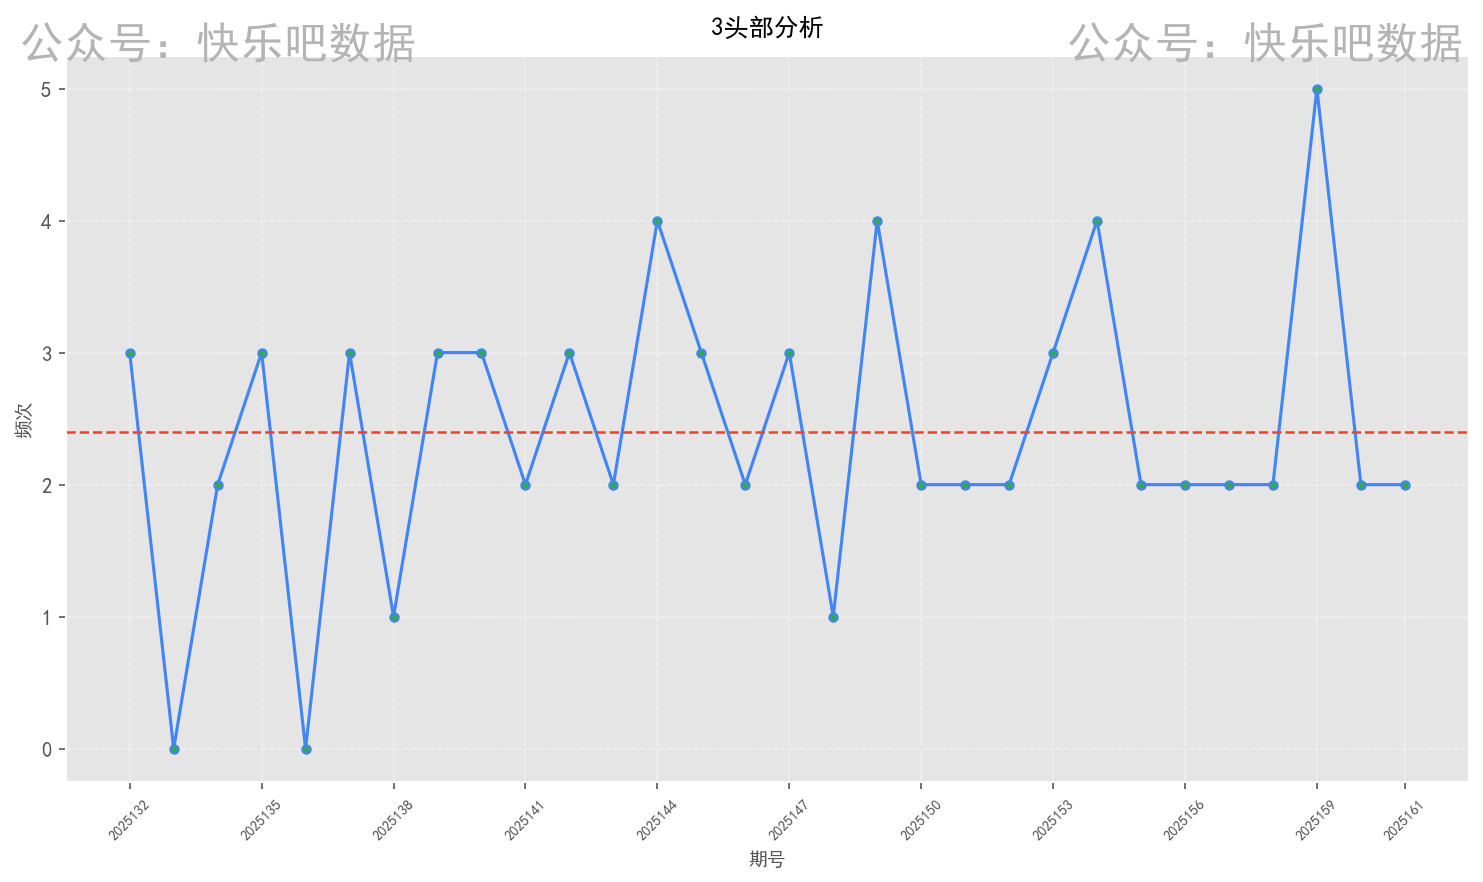
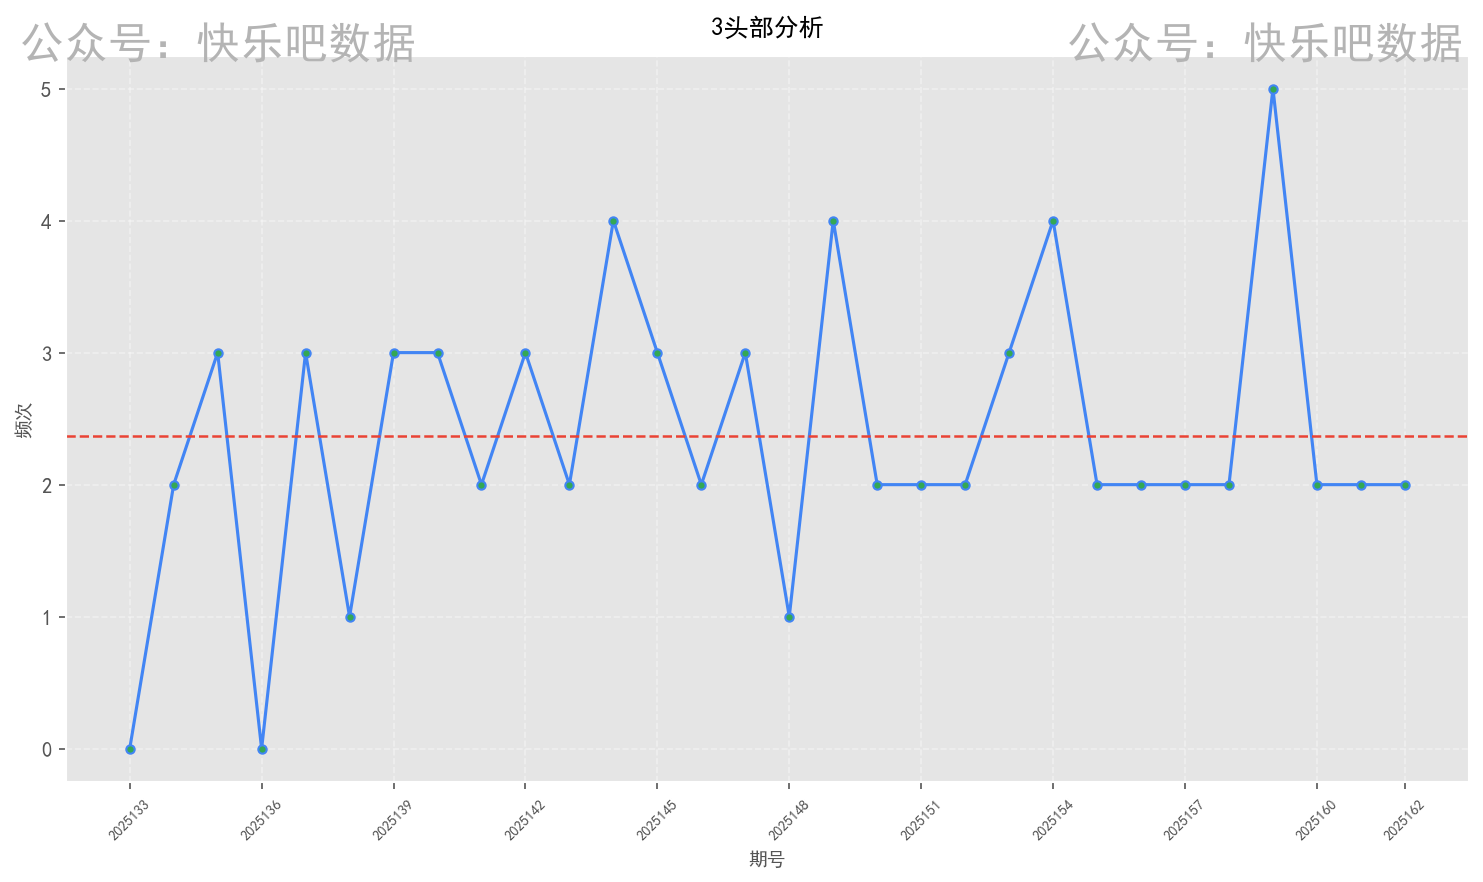
自动提交报告 20250622_1250

diff --git a/快乐8头号分析项目/数据报告/20250622/report.html b/快乐8头号分析项目/数据报告/20250622/report.html
@@ -440,7 +440,7 @@
                     <div class="label">头部区间</div>
                 </div>
                 <div class="overview-card">
-                    <div class="value">2025161</div>
+                    <div class="value">2025162</div>
                     <div class="label">最新期号</div>
                 </div>
                 <div class="overview-card">
@@ -464,11 +464,11 @@
             <div class="stats-summary">
                 <div class="stat-item">
                     <span class="stat-label">历史平均</span>
-                    <span class="stat-value">2.10</span>
+                    <span class="stat-value">2.23</span>
                 </div>
                 <div class="stat-item">
                     <span class="stat-label">近期平均</span>
-                    <span class="stat-value">1.00</span>
+                    <span class="stat-value">1.40</span>
                 </div>
                 <div class="stat-item">
                     <span class="stat-label">最高频次</span>
@@ -490,7 +490,7 @@
                 </div>
                 <div class="stat-item">
                     <span class="stat-label">近期平均</span>
-                    <span class="stat-value">2.20</span>
+                    <span class="stat-value">2.60</span>
                 </div>
                 <div class="stat-item">
                     <span class="stat-label">最高频次</span>
@@ -508,11 +508,11 @@
             <div class="stats-summary">
                 <div class="stat-item">
                     <span class="stat-label">历史平均</span>
-                    <span class="stat-value">2.77</span>
+                    <span class="stat-value">2.80</span>
                 </div>
                 <div class="stat-item">
                     <span class="stat-label">近期平均</span>
-                    <span class="stat-value">2.80</span>
+                    <span class="stat-value">2.60</span>
                 </div>
                 <div class="stat-item">
                     <span class="stat-label">最高频次</span>
@@ -530,7 +530,7 @@
             <div class="stats-summary">
                 <div class="stat-item">
                     <span class="stat-label">历史平均</span>
-                    <span class="stat-value">2.40</span>
+                    <span class="stat-value">2.37</span>
                 </div>
                 <div class="stat-item">
                     <span class="stat-label">近期平均</span>
@@ -552,7 +552,7 @@
             <div class="stats-summary">
                 <div class="stat-item">
                     <span class="stat-label">历史平均</span>
-                    <span class="stat-value">2.47</span>
+                    <span class="stat-value">2.40</span>
                 </div>
                 <div class="stat-item">
                     <span class="stat-label">近期平均</span>
@@ -574,11 +574,11 @@
             <div class="stats-summary">
                 <div class="stat-item">
                     <span class="stat-label">历史平均</span>
-                    <span class="stat-value">2.63</span>
+                    <span class="stat-value">2.57</span>
                 </div>
                 <div class="stat-item">
                     <span class="stat-label">近期平均</span>
-                    <span class="stat-value">3.00</span>
+                    <span class="stat-value">2.40</span>
                 </div>
                 <div class="stat-item">
                     <span class="stat-label">最高频次</span>
@@ -600,7 +600,7 @@
                 </div>
                 <div class="stat-item">
                     <span class="stat-label">近期平均</span>
-                    <span class="stat-value">2.80</span>
+                    <span class="stat-value">3.00</span>
                 </div>
                 <div class="stat-item">
                     <span class="stat-label">最高频次</span>
@@ -622,7 +622,7 @@
                 </div>
                 <div class="stat-item">
                     <span class="stat-label">近期平均</span>
-                    <span class="stat-value">1.80</span>
+                    <span class="stat-value">1.60</span>
                 </div>
                 <div class="stat-item">
                     <span class="stat-label">最高频次</span>
@@ -668,7 +668,7 @@
         <div class="disclaimer">
             <div class="disclaimer-title"><i class="fas fa-exclamation-circle"></i> 法律声明</div>
             <p>本分析报告基于中国福利彩票官网公开数据制作，仅供历史数据分析与参考，严禁用于赌博或任何违法违规用途。</p>
-            <p>根据中国法律，禁止向未成年人传播彩票相关信息。数据统计周期: 2025132期-2025161期 | 生成时间: 2025-06-22 12:44</p>
+            <p>根据中国法律，禁止向未成年人传播彩票相关信息。数据统计周期: 2025133期-2025162期 | 生成时间: 2025-06-22 12:50</p>
         </div>
 
         <!-- 操作按钮 -->

diff --git a/index.html b/index.html
@@ -51,7 +51,7 @@
                 立即查看今日报告
             </a>
         </p>
-        <p>生成时间: 2025-06-22 12:44</p>
+        <p>生成时间: 2025-06-22 12:50</p>
     </div>
 
     <script>
